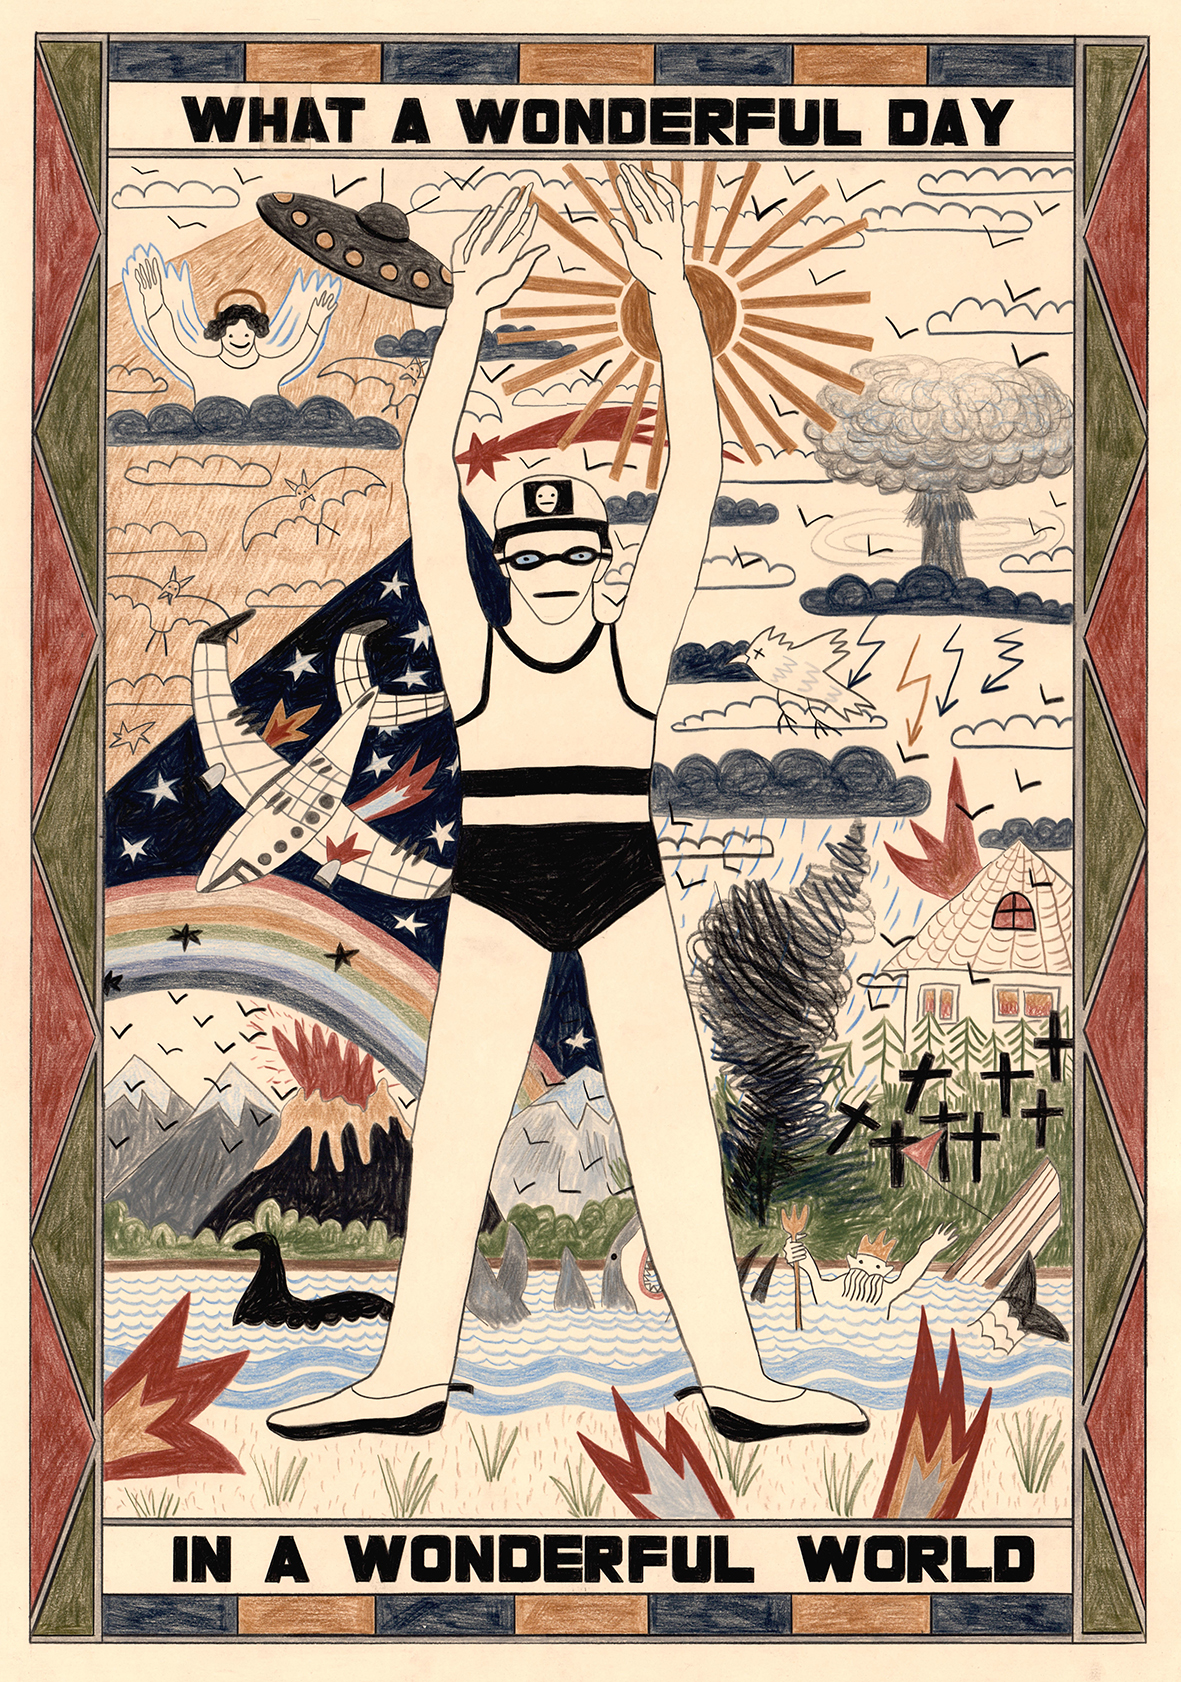
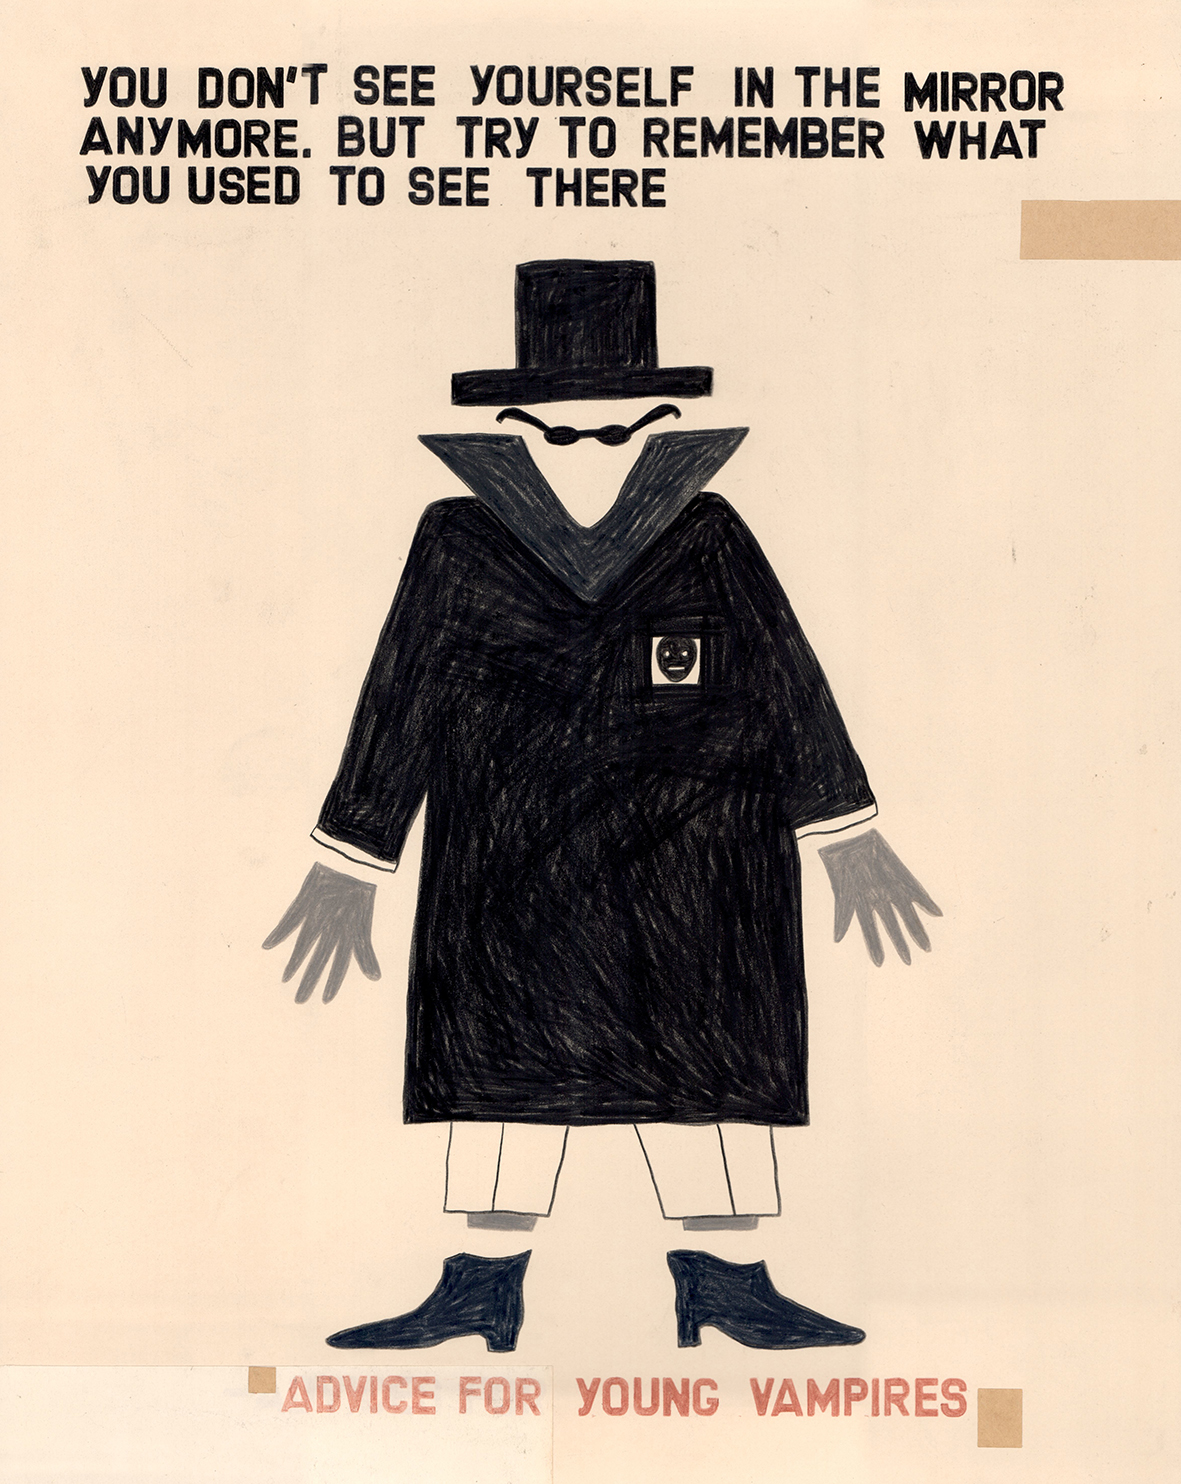
2025

diff --git a/works.html b/works.html
@@ -77,9 +77,9 @@
         <a href="2025/11.jpg" data-ngid="1110" data-ngalbumid="11" data-ngthumb="2025/11.jpg"></a>
         <a href="2025/12.jpg" data-ngid="1111" data-ngalbumid="11" data-ngthumb="2025/12.jpg"></a>
         <a href="2025/13.jpg" data-ngid="1112" data-ngalbumid="11" data-ngthumb="2025/13.jpg"></a>
-        <a href="2025/14.jpg" data-ngid="1113" data-ngalbumid="11" data-ngthumb="2025/14.jpg" data-ngdesc="coloured pencils, 70x50 cm, 2025"></a>
-        <a href="2025/15.jpg" data-ngid="1114" data-ngalbumid="11" data-ngthumb="2025/15.jpg" data-ngdesc="coloured pencils, 50x70 cm, 2025"></a>
-
+        <a href="2025/14.jpg" data-ngid="1113" data-ngalbumid="11" data-ngthumb="2025/14.jpg" data-ngdesc="coloured pencils, 50x40 cm, 2025"></a>
+        <a href="2025/15.jpg" data-ngid="1114" data-ngalbumid="11" data-ngthumb="2025/15.jpg" data-ngdesc="coloured pencils, 70x50 cm, 2025"></a>
+        <a href="2025/16.jpg" data-ngid="1115" data-ngalbumid="11" data-ngthumb="2025/16.jpg" data-ngdesc="coloured pencils, 50x70 cm, 2025"></a>
 
         <!-- 2024 -->
         <a href="" data-ngkind="album" data-ngid="10" data-ngthumb="2024/08.jpg">2024</a>